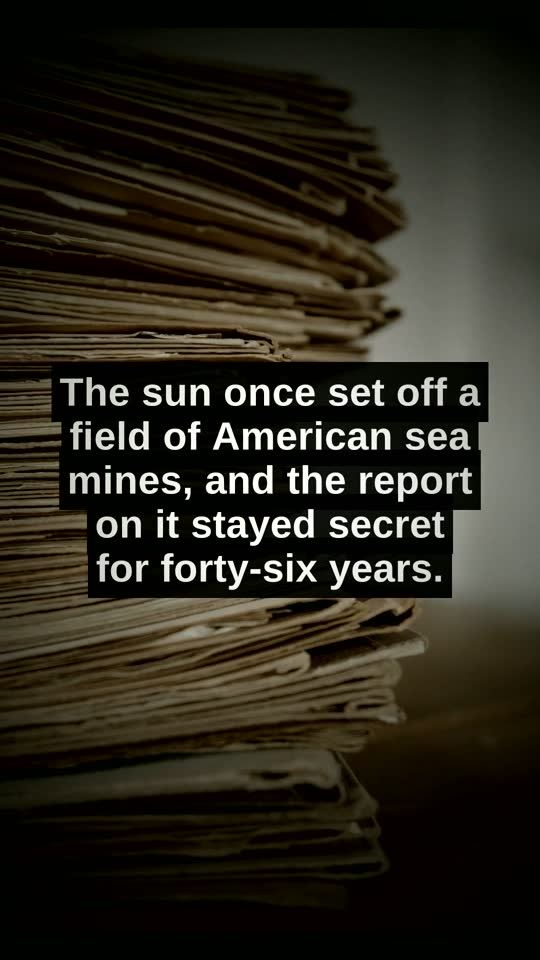
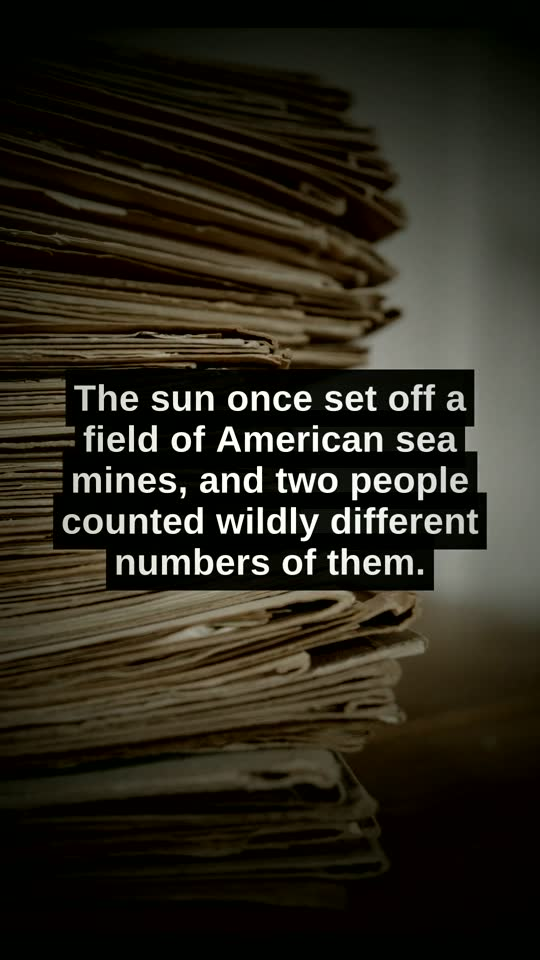
Drama pass v1: matched footage, a real quote card, and questions
Root cause of 'no drama': footage was pooled and shuffled, so a shot had no
idea what sentence it was under — 'no diver anywhere in the water' played
over a wall of vintage radios. assets.py now records which query produced
each still, queries are written in script order, and the composer walks them
in that order. The opener is drawn from the opening beats, so the thumbnail
is topical by construction rather than by hand-picking.

Adds a clipping card carrying a real quote with real attribution (CPO
Michael Gonzales' memoir, via Knipp et al. 2018) — deliberately not a
newspaper masthead, because inventing a front page forges a record.

solarmines rewritten with a mid-video open question and a closing question
that is the engagement ask without asking.

Changed region(s): [[0.0889, 0.375, 0.9185, 0.625]]

diff --git a/2/index.html b/2/index.html
@@ -176,17 +176,17 @@ footer a{color:var(--dim)}
       <p class="news">Declassified US Navy records, published in Space Weather (2018)</p>
 
       <p class="lbl">The gap it opens</p>
-      <p class="gap">A weapon system was set off by a star, and the report sat classified for forty-six years.</p>
+      <p class="gap">Two numbers are in the record and nobody has reconciled them: the aircrew logged two dozen, a Navy mineman wrote over four thousand.</p>
 
       <p class="lbl">Why this one should travel</p>
       <p class="why">broad-appeal set: the sun, the air, the water, the ground and the food.</p>
 
       <p class="lbl">Script as recorded</p>
-      <div class="script"><p>In nineteen seventy-two two dozen American sea mines exploded in about thirty seconds with nothing anywhere near them.</p><p>The crew of a US aircraft was flying past a minefield off the coast of Vietnam when the water started going up.</p><p>Twenty to twenty-five detonations, and no ship, no aircraft, no diver anywhere in the water.</p><p>These were magnetic mines, built to sense a steel hull passing overhead and fire.</p><p>So the Navy opened an investigation into who had triggered its weapons.</p><p>And here the obvious answer falls apart, because nobody had. The enemy was never there.</p><p>Ninety-three million miles away the sun had thrown out a storm of charged particles, and on the fourth of August it arrived.</p><p>It shoved the Earth&#x27;s magnetic field hard enough that the mines read it as a passing ship and fired.</p><p>The Navy&#x27;s own report put it at a high degree of probability, then classified the finding for forty-six years.</p><p>We only know because researchers went digging in the archive in twenty eighteen.</p><p>A star pulled the trigger on a weapon, and almost nobody was told.</p></div>
+      <div class="script"><p>In nineteen seventy-two a field of American sea mines went off on its own, and the Navy classified why for forty-six years.</p><p>A US aircraft was passing a minefield off Vietnam when the water started going up.</p><p>Two dozen explosions in thirty seconds. No ship, no aircraft, no diver anywhere near them.</p><p>These were magnetic mines, built to sense a steel hull passing overhead and fire.</p><p>So the Navy investigated who had triggered its weapons, and the answer was nobody.</p><p>Ninety-three million miles away the sun had thrown out a storm of charged particles that arrived on the fourth of August.</p><p>It shoved the Earth&#x27;s magnetic field hard enough that the mines read it as a passing ship.</p><p>Now think about what else along that coast was magnetic that day.</p><p>Because there is a number nobody has reconciled. A Navy mineman, Chief Petty Officer Michael Gonzales, wrote that the storm set off more than four thousand of them.</p><p>The aircrew saw two dozen. He wrote four thousand.</p><p>So which number goes in the report — the two dozen someone watched, or the four thousand someone counted?</p></div>
 
       <details>
         <summary>The verified facts underneath it</summary>
-        <ul class="facts"><li>4 August 1972: US Task Force 77 aircrew flying near a minefield off Hon La observed 20 to 25 explosions in about 30 seconds</li><li>The mines were Destructor sea mines laid during Operation Pocket Money</li><li>The declassified US Navy report concluded there was &#x27;a high degree of probability&#x27; the mines were detonated by the August 1972 solar storm</li><li>Published by Knipp and colleagues in the journal Space Weather, 2018</li></ul>
+        <ul class="facts"><li>4 August 1972: US Task Force 77 aircrew flying near a minefield off Hon La observed 20 to 25 explosions in about 30 seconds</li><li>The mines were Destructor sea mines laid during Operation Pocket Money</li><li>The declassified US Navy report concluded there was &#x27;a high degree of probability&#x27; the mines were detonated by the August 1972 solar storm</li><li>Published by Knipp and colleagues in the journal Space Weather, 2018</li><li>Chief Petty Officer Michael Gonzales, wartime memoirs (2015), quoted in Knipp et al. 2018: the storm caused &#x27;the premature detonation of over 4,000 magnetically sensitive DSTs (Destructor mines)&#x27;</li><li>Tucker (2006), quoted in the same paper: TF-77 aircraft reported &#x27;some two dozen explosions in a mine field near Hon La over a thirty-second time span&#x27;</li></ul>
         <p class="src">Source: primary or near-primary sources, listed in facts</p>
       </details>
     </div>
